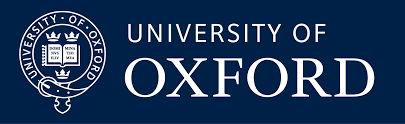
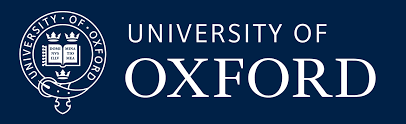
Add oxford branding

diff --git a/_includes/footer.html b/_includes/footer.html
@@ -84,6 +84,7 @@
 				<li><a href="{{ site.linkedin_url }}" class="icon alt fa-linkedin" target="_blank"><span class="label">LinkedIn</span></a></li>
 				{% endif %}
 				<!-- Funders go here -->
+				<li><img href="http://www.ox.ac.uk/" src="{{ "assets/images/oxford.png" | absolute_url }}" target="_blank"></img></li>
 				<!--<li><img src="{{ "assets/images/funding.png" | absolute_url }}" target="_blank"></img></li>-->
 				<!--<li><img src="{{ "assets/images/sgc.png" | absolute_url }}" target="_blank"></img></li>-->
 				<!--<li><img src="{{ "assets/images/diamond.png" | absolute_url }}" target="_blank"></img></li>-->
